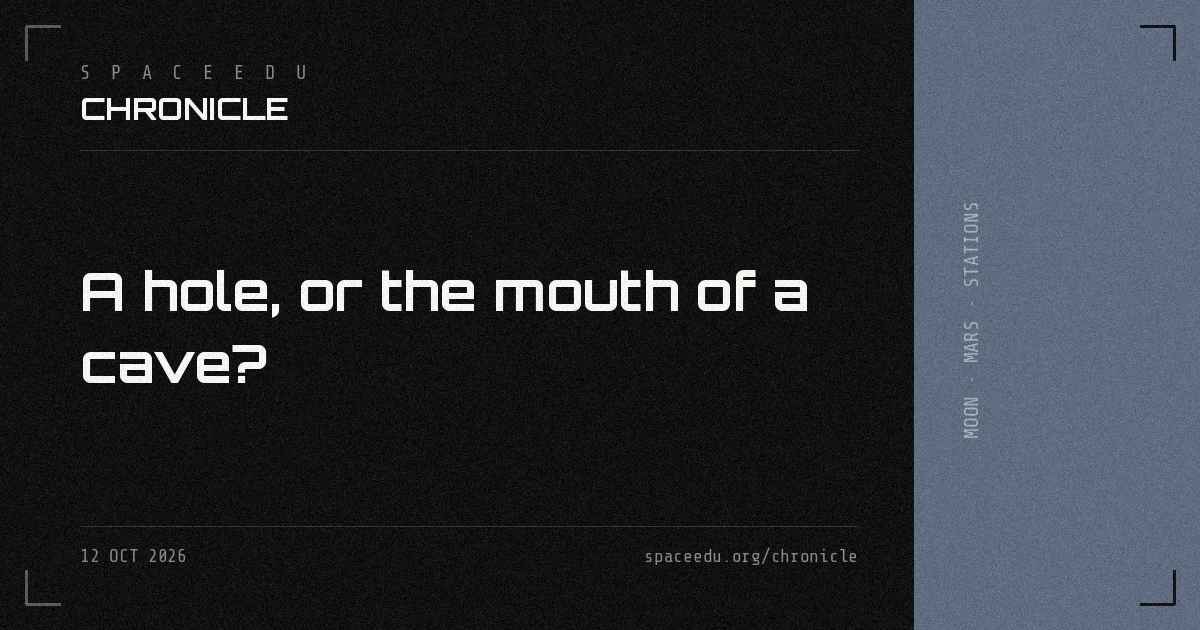
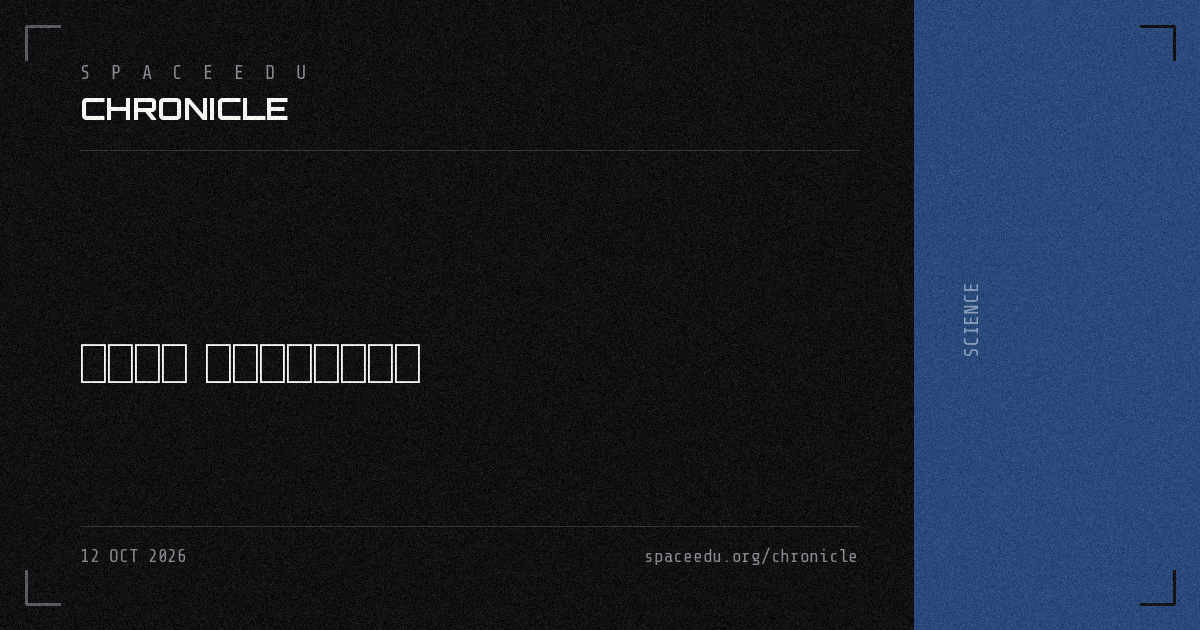
OG card: 2026-10-12

Changed region(s): [[0.74, 0.0, 1.0, 1.0], [0.0617, 0.4222, 0.6783, 0.5127], [0.0617, 0.5429, 0.3392, 0.6333]]

diff --git a/c/2026-10-12/index.html b/c/2026-10-12/index.html
@@ -4,20 +4,20 @@
 <meta charset="utf-8">
 <meta name="viewport" content="width=device-width,initial-scale=1">
 <meta name="robots" content="noindex">
-<link rel="canonical" href="http://130.61.118.3:5001/chronicle/">
+<link rel="canonical" href="https://spaceedu.org/chronicle/">
 <meta property="og:type" content="website">
 <meta property="og:site_name" content="SpaceEdu Chronicle">
-<meta property="og:url" content="http://130.61.118.3:5001/c/2026-10-12/">
-<meta property="og:title" content="A hole, or the mouth of a cave?">
+<meta property="og:url" content="https://spaceedu.org/c/2026-10-12/">
+<meta property="og:title" content="Тест конверта">
 <meta property="og:description" content="SpaceEdu Chronicle · 2026-10-12">
-<meta property="og:image" content="http://130.61.118.3:5001/c/2026-10-12/card.png">
+<meta property="og:image" content="https://spaceedu.org/c/2026-10-12/card.png">
 <meta property="og:image:width" content="1200">
 <meta property="og:image:height" content="630">
 <meta name="twitter:card" content="summary_large_image">
-<meta name="twitter:title" content="A hole, or the mouth of a cave?">
-<meta name="twitter:image" content="http://130.61.118.3:5001/c/2026-10-12/card.png">
-<title>A hole, or the mouth of a cave?</title>
-<script>window.location.replace("http://130.61.118.3:5001/chronicle/");</script>
+<meta name="twitter:title" content="Тест конверта">
+<meta name="twitter:image" content="https://spaceedu.org/c/2026-10-12/card.png">
+<title>Тест конверта</title>
+<script>window.location.replace("https://spaceedu.org/chronicle/" + window.location.search);</script>
 </head>
-<body><a href="http://130.61.118.3:5001/chronicle/">SpaceEdu Chronicle</a></body>
+<body><a href="https://spaceedu.org/chronicle/">SpaceEdu Chronicle</a></body>
 </html>
